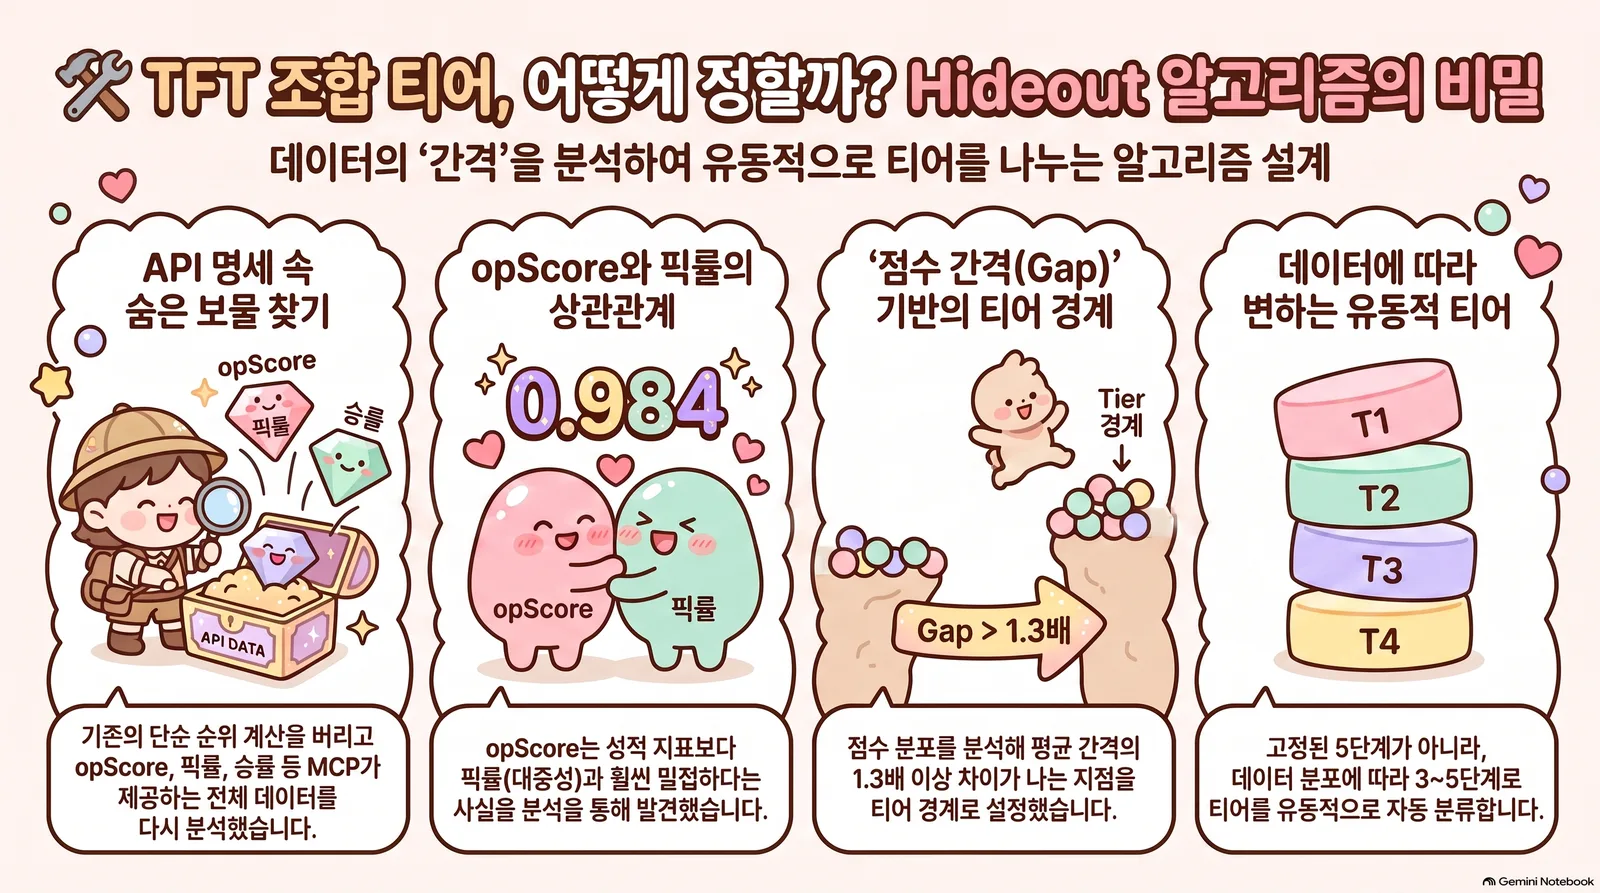
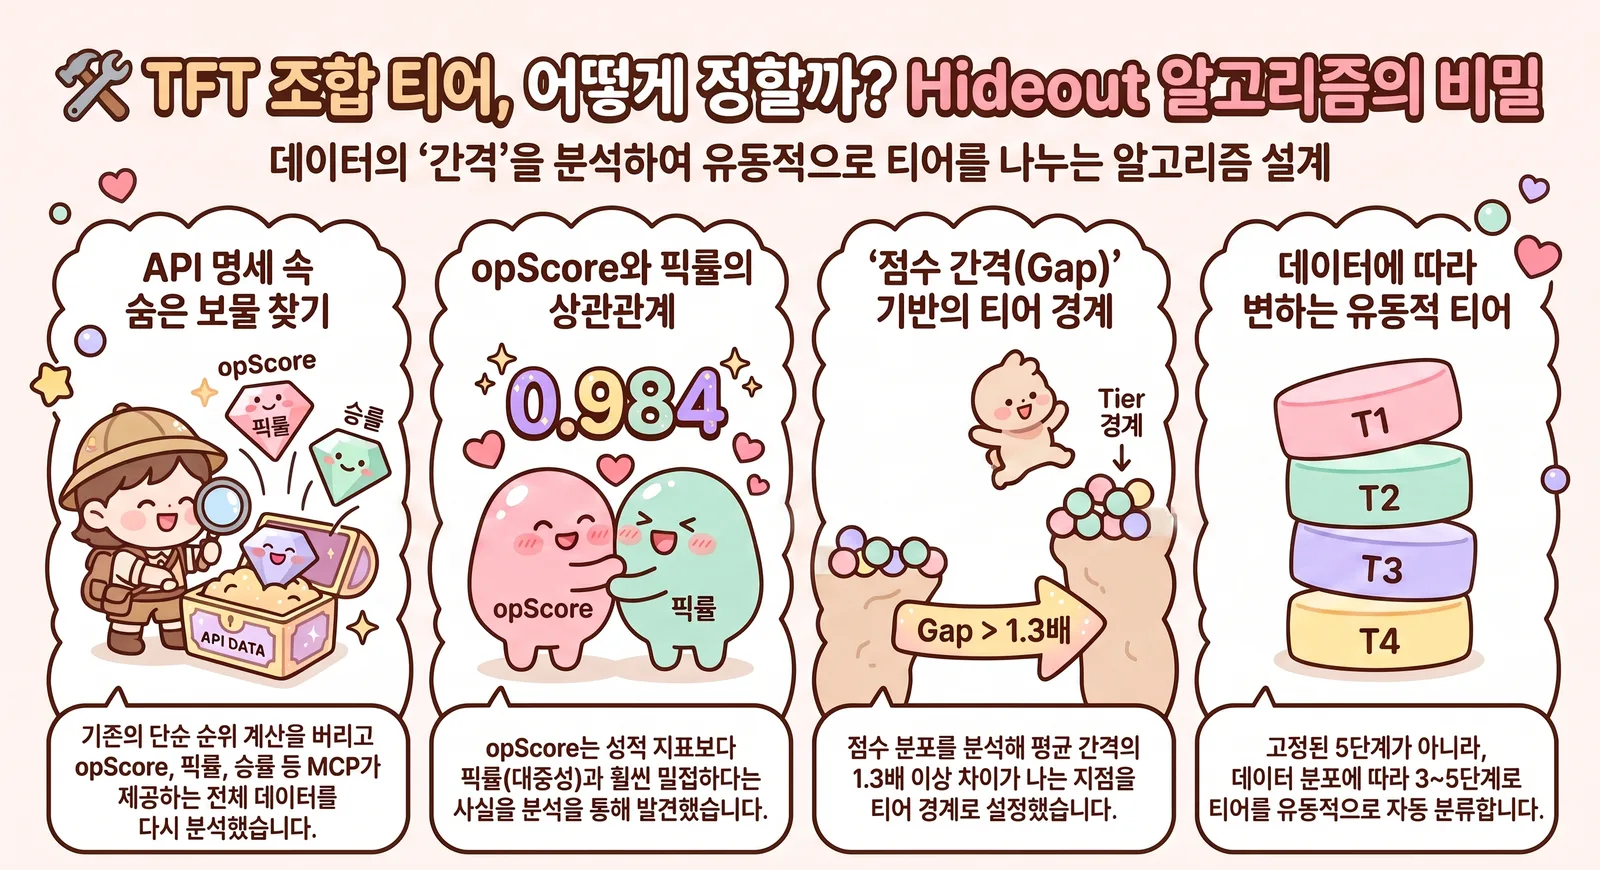
개발일지 커버 이미지 재교체 및 출처 표기 추가
워터마크 없는 인포그래픽으로 커버/썸네일 교체, 커버 하단에
"by Gemini Notebook" 출처 캡션 추가.

Changed region(s): [[0.0, 0.0621, 1.0, 0.9931]]

diff --git a/posts/2026-08-18-tft-tier-scoring-pickrate.html b/posts/2026-08-18-tft-tier-scoring-pickrate.html
@@ -56,6 +56,7 @@
       <div class="detail-cover">
         <img src="/assets/images/2026-08-18-tft-tier-scoring-pickrate-cover.webp" alt="티어 스코어링을 다시 들여다본 이야기 인포그래픽" class="detail-cover-img">
       </div>
+      <p class="detail-cover-caption">by Gemini Notebook</p>
     </section>
 
     <article class="section post-body">

diff --git a/assets/css/style.css b/assets/css/style.css
@@ -733,6 +733,13 @@ a.plan-point-title.doc-link:hover {
   height: auto;
 }
 
+.detail-cover-caption {
+  margin: 6px 2px 0;
+  font-size: 0.8125rem;
+  color: var(--ink-soft);
+  text-align: right;
+}
+
 .detail-gallery {
   display: grid;
   grid-template-columns: repeat(2, 1fr);
